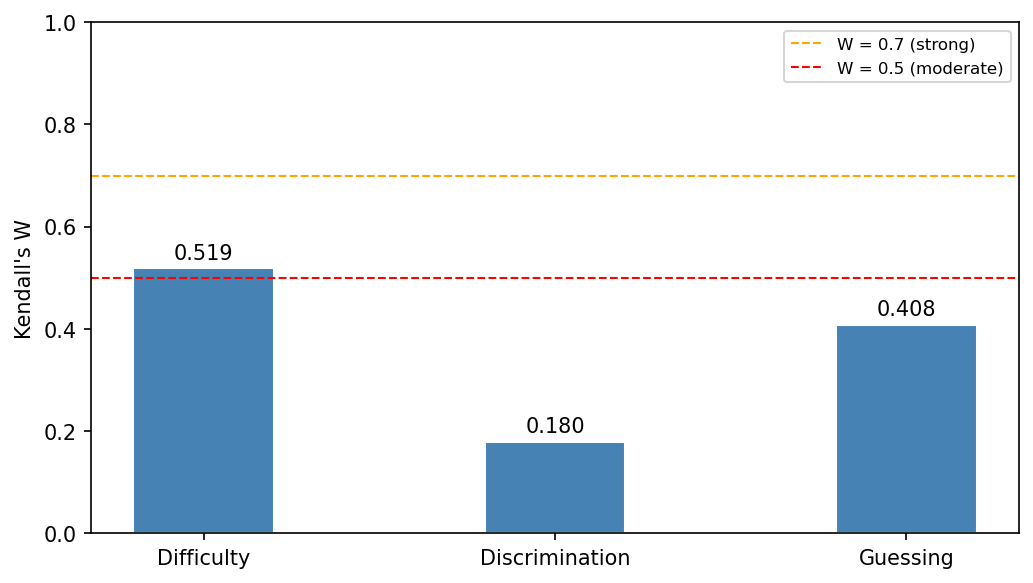
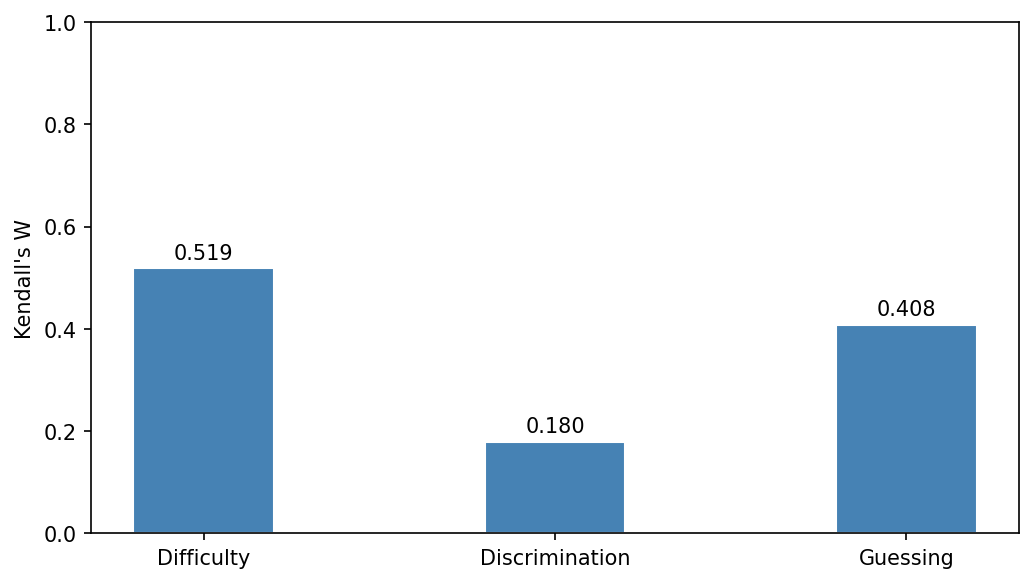
kendall W without baselines

Changed region(s): [[0.7744, 0.0309, 0.9913, 0.1544]]

diff --git a/acl_latex_2.tex b/acl_latex_2.tex
@@ -258,7 +258,7 @@ We conduct two sets of experiments to assess whether IRT parameters are consiste
   \label{tab:science_vs_nonsci}
 \end{table}
 
-\autoref{fig:kendalls_w} shows that difficulty concordance is maintained across model complexities, while discrimination parameters are substantially less cross-lingually stable. Under 1PL, both benchmarks yield moderate difficulty concordance: MGSM at $W = 0.544$ and MMLU domains ranging from $W \in [0.514, 0.659]$ (all six domains exceeding the moderate-agreement threshold\footnote{We adopt $W=0.5$ and $W=0.7$ as moderate and strong concordance thresholds by analogy with conventional correlation effect-size interpretation; no universally agreed scale exists for Kendall's $W$. Practically, $W=0.5$ implies that the average monotonic agreement in item difficulty ranks substantially exceeds chance. We interpret this as \emph{partial} cross-lingual
+\autoref{fig:kendalls_w} shows that difficulty concordance is maintained across model complexities, while discrimination parameters are substantially less cross-lingually stable. Under 1PL, both benchmarks yield moderate difficulty concordance: MGSM at $W = 0.544$ and MMLU domains ranging from $W \in [0.514, 0.659]$ (all six domains exceeding the moderate-agreement threshold\footnote{We adopt $W=0.5$ and $W=0.7$ as moderate and strong concordance thresholds by analogy with conventional correlation effect-size interpretation \cite{landis1977measurement}. Practically, $W=0.5$ implies that the average monotonic agreement in item difficulty ranks substantially exceeds chance. We interpret this as \emph{partial} cross-lingual
 generalization rather than strong invariance, and our conclusions are framed
 accordingly.}). Under 2PL, difficulty concordance is maintained: MGSM $W_\text{diff} = 0.526$ (barely below 1PL), MMLU $W_\text{diff} \in [0.421, 0.642]$. Under 3PL, difficulty concordance is similarly preserved (MGSM $W_\text{diff} = 0.519$; MMLU $W_\text{diff} \in [0.520, 0.664]$). The discrimination parameter, by contrast, shows substantially lower cross-lingual agreement across both 2PL (MGSM $W_\text{disc} = 0.185$; MMLU $W_\text{disc} \in [0.134, 0.319]$) and 3PL ($W_\text{disc}$ similarly low). The guessing parameter $c$ under 3PL retains moderate concordance on both MGSM ($W = 0.408$) and MMLU ($W \in [0.365, 0.547]$).
 
@@ -498,10 +498,10 @@ benchmark. We evaluate four conditions: (i)~in-sample same-language; (ii)~held-o
 same-language (IRT fitted on 80\% of models, evaluated on held-out 20\%);
 (iii)~in-sample cross-lingual; and (iv)~held-out cross-lingual. The primary metric is
 Spearman $\rho$ between per-model subset accuracy and full-benchmark accuracy,
-compared against a 200-draw random-item baseline (\autoref{fig:heldout_vs_insample}). Under 1PL, same-language fidelity is high and stable across both splits: in-sample median $\rho = 0.982$ (MGSM) and $1.000$ (MMLU), dropping only marginally on held-out models ($0.972$ and $1.000$), well above the random baselines. On MGSM, 2PL and 3PL also preserve strong held-out fidelity ($\rho = 0.953$ and $0.951$), showing that with stable parameter estimation all three variants are viable. On MMLU, fidelity degrades progressively with model complexity: 2PL held-out median $\rho = 0.828$ and 3PL $\rho = 0.691$, with 3PL showing the widest spread and several low-fidelity slices (per-slice distributions and accuracy scatter plots in Appendix~\ref{app:ranking_fidelity}).
+compared against a 200-draw random-item baseline\footnote{A mean-accuracy selection baseline achieves comparable fidelity to 1PL (cross-lingual held-out: MGSM $\rho = 0.954$ vs.\ $0.949$; MMLU $\rho = 0.879$ vs.\ $0.877$), but this does not bear on our research question, which concerns whether IRT \textit{parameters} generalise across languages, not whether IRT outperforms alternatives.} (\autoref{fig:heldout_vs_insample}). Under 1PL, same-language fidelity is high and stable across both splits: in-sample median $\rho = 0.982$ (MGSM) and $1.000$ (MMLU), dropping only marginally on held-out models ($0.972$ and $1.000$), well above the random baselines. On MGSM, 2PL and 3PL also preserve strong held-out fidelity ($\rho = 0.953$ and $0.951$), showing that with stable parameter estimation all three variants are viable. On MMLU, fidelity degrades progressively with model complexity: 2PL held-out median $\rho = 0.828$ and 3PL $\rho = 0.691$, with 3PL showing the widest spread and several low-fidelity slices (per-slice distributions and accuracy scatter plots in Appendix~\ref{app:ranking_fidelity}).
 
 To isolate which parameter drives this degradation, \autoref{tab:param_decomp}
-decomposes fidelity by applying progressively richer IIF formulas, also shown in \autoref{fig:param_decomp}: on MGSM all six strategies yield near-identical fidelity, confirming that difficulty alone drives the signal; on MMLU fidelity drops monotonically with each parameter added, with discrimination causing the largest single step down. Selecting items by \textit{difficulty alone} preserves high fidelity across both benchmarks regardless of which PL model fitted it (MGSM held-out: $\rho \approx 0.97$; MMLU held-out: $0.89$--$0.93$). Adding \textit{discrimination} introduces the primary degradation: $-0.017$--$0.022$ on MGSM and $-0.101$--$0.111$ on MMLU held-out, consistent with discrimination being language-idiosyncratic. Adding \textit{guessing} further reduces MMLU held-out fidelity by $0.087$ ($0.778 \to 0.691$) while leaving MGSM virtually unchanged ($0.950 \to 0.951$). Together, it is not model complexity per se but the \textit{discrimination} parameter that drives fidelity loss, and difficulty-based or 1PL selection remains the safest cross-lingual strategy.
+decomposes fidelity by applying progressively richer IIF formulas, also shown in \autoref{fig:param_decomp}: on MGSM all six strategies yield near-identical fidelity, confirming that difficulty alone drives the signal; on MMLU fidelity drops monotonically with each parameter added, with discrimination causing the largest single step down. Selecting items by \textit{difficulty alone} preserves high fidelity across both benchmarks and \textit{discrimination} introduces the primary degradation: $-0.017$--$0.022$ on MGSM and $-0.101$--$0.111$ on MMLU held-out, consistent with discrimination being language-idiosyncratic. Adding \textit{guessing} further reduces MMLU held-out fidelity by $0.087$ ($0.778 \to 0.691$) while leaving MGSM virtually unchanged ($0.950 \to 0.951$). Together, it is not model complexity per se but the \textit{discrimination} parameter that drives fidelity loss, and difficulty-based or 1PL selection remains the safest cross-lingual strategy.
 
 
 
@@ -572,19 +572,19 @@ Across our two experiments, the findings converge on the same story.
 
 \textbf{Subset analysis.} Within-language, 1PL subsets preserve model rankings reliably on both benchmarks, and 2PL and 3PL are competitive on MGSM but degrade substantially on MMLU. Cross-lingually, MGSM remains robust across all three variants, while on MMLU 1PL is the only reliable variant. The parameter decomposition in Table~\ref{tab:crosslingual_decomp} shows that most of the fidelity drop happens before discrimination even enters selection: switching from 1PL to 2PL difficulty alone already costs substantial fidelity on MMLU.
 
-Together, these results reflect something fundamental about what each IRT parameter captures. Difficulty measures how hard an item is for the average model: a property that, for a well-translated item, should survive translation. Discrimination measures how sharply an item separates strong from weak models, which depends on how capabilities distribute in that language and on surface features of the item's phrasing neither of which is translation-invariant. Guessing reflects how often models answer correctly at chance, mediated by pretraining knowledge; since pretraining exposure is uneven but not entirely language-specific, it holds up better than discrimination but not as well as difficulty.  More concretely, for using IRT filtering on multilingual translated benchmarks: i)we must not assume that a subset which works well within one language will generalise to others i.e.,  cross-lingual validity should be verified explicitly by checking concordance across typologically distant languages before deployment and ii) we must account for domain composition as science and STEM domains are reliably more cross-lingually stable than humanities and social sciences, and a single overall fidelity check will mask important variation within mixed-domain benchmarks. Model complexity should match to the stability of the data since richer IRT models are not always better, and when cross-lingual concordance is limited, simpler models that rely only on the most stable parameters will produce more transferable subsets.
+Together, these results reflect something fundamental about what each IRT parameter captures. Difficulty measures how hard an item is for the average model: a property that, for a well-translated item, should survive translation. Discrimination measures how sharply an item separates strong from weak models, which depends on how capabilities distribute in that language and on surface features of the item's phrasing neither of which is translation-invariant. Guessing reflects how often models answer correctly at chance, mediated by pretraining knowledge; since pretraining exposure is uneven but not entirely language-specific, it holds up better than discrimination but not as well as difficulty.  More concretely, for using IRT filtering on multilingual translated benchmarks: i)we must not assume that a subset which works well within one language will generalise to others i.e.,  cross-lingual validity should be verified explicitly by checking concordance across typologically distant languages before deployment and ii) we must account for domain composition as science and STEM domains are reliably more cross-lingually stable than humanities and social sciences, and a single overall fidelity check will mask important variation within mixed-domain benchmarks. When cross-lingual concordance is limited, simpler models that rely only on the most stable parameters will produce more transferable subsets.
 
 
 
 \section{Conclusion}
 
-We set out to test a basic but largely unexamined assumption in multilingual LLM evaluation: that IRT, an established tool for benchmark filtering, behaves consistently when the same benchmark is translated across languages. The answer is that it does but only for some parameters. Difficulty is moderately stable across languages for all IRT variants and both benchmark types, and IRT-filtered subsets built from one language reliably preserve model rankings in another. Discrimination does not transfer: it captures language-specific rather than item-specific signal, and Guessing sits between the two, reflecting pretraining-mediated chance performance rather than language-specific item structure. This parameter hierarchy is consistent across concordance measures, language clustering, and subset ranking fidelity, and it determines a clear practical recommendation: 1PL is the most reliable cross-lingual variant. However,our conclusions are grounded in open-weight instruction-tuned models under 20
+We set out to test a basic but largely unexamined assumption in multilingual LLM evaluation: whether IRT, an established tool for benchmark filtering, behaves consistently when the same benchmark is translated across languages. The answer is that it does but only for some parameters. Difficulty is moderately stable across languages for all IRT variants, and IRT-filtered subsets built from one language reliably preserve model rankings in another. Discrimination does not transfer: it captures language-specific rather than item-specific signal, and Guessing sits between the two, reflecting pretraining-mediated chance performance rather than language-specific item structure. This parameter hierarchy is consistent across concordance measures, language clustering, and subset ranking fidelity, and it determines a clear practical recommendation: 1PL is the most reliable cross-lingual variant. However,our conclusions are grounded in open-weight instruction-tuned models under 20
 billion parameters and a language sample skewed toward European languages; their
-scope should be verified before extension to frontier models or typologically distant
-language families not represented here. 
+scope should be verified with frontier models and typologically distant
+language families not represented. 
 
 
-As translation-based multilingual benchmarks become standard infrastructure for LLM evaluation, the psychometric properties of translated items cannot be assumed to carry over across languages. Our findings show that the choice of IRT model and the stability of its parameters are not incidental details: they determine whether a compressed benchmark remains valid across the languages it is meant to evaluate. Cross-lingual validity should be demonstrated, not assumed, and we hope this work provides a concrete empirical basis for that standard.
+As translation-based multilingual benchmarks become common, the psychometric properties of translated items cannot be assumed to carry over across languages. Our findings show that the choice of IRT model and the stability of its parameters are not incidental details: they determine whether a compressed benchmark remains valid across the languages it is meant to evaluate. Cross-lingual validity should be demonstrated, not assumed, and we hope this work provides a concrete empirical basis for that standard.
 
 
 %We hope this motivates further work on psychometrically grounded criteria for multilingual benchmark construction and validation.We hope this motivates further work on psychometrically grounded multilingual evaluation, and principled criteria for when language-specific calibration is warranted for evaluation benchmarks.

diff --git a/scripts/analysis_2/gsm/rank_consistency_2pl.py b/scripts/analysis_2/gsm/rank_consistency_2pl.py
@@ -189,12 +189,9 @@ def main() -> None:
     bars = ax3.bar(param_labels, w_values, color="steelblue", edgecolor="white", width=0.4)
     ax3.set_ylim(0, 1)
     ax3.set_ylabel("Kendall's W")
-    ax3.axhline(0.7, color="orange", linestyle="--", linewidth=1, label="W = 0.7 (strong)")
-    ax3.axhline(0.5, color="red", linestyle="--", linewidth=1, label="W = 0.5 (moderate)")
     for bar, val in zip(bars, w_values):
         ax3.text(bar.get_x() + bar.get_width() / 2, bar.get_height() + 0.01,
                  f"{val:.3f}", ha="center", va="bottom", fontsize=10)
-    ax3.legend(fontsize=8)
     fig3.tight_layout()
     fig3.savefig(args.output_dir / "kendalls_w.png", dpi=150, bbox_inches="tight")
     plt.close(fig3)

diff --git a/scripts/analysis_2/gsm/rank_consistency_3pl.py b/scripts/analysis_2/gsm/rank_consistency_3pl.py
@@ -206,12 +206,9 @@ def main() -> None:
     bars = ax4.bar(param_labels, w_values, color="steelblue", edgecolor="white", width=0.4)
     ax4.set_ylim(0, 1)
     ax4.set_ylabel("Kendall's W")
-    ax4.axhline(0.7, color="orange", linestyle="--", linewidth=1, label="W = 0.7 (strong)")
-    ax4.axhline(0.5, color="red", linestyle="--", linewidth=1, label="W = 0.5 (moderate)")
     for bar, val in zip(bars, w_values):
         ax4.text(bar.get_x() + bar.get_width() / 2, bar.get_height() + 0.01,
                  f"{val:.3f}", ha="center", va="bottom", fontsize=10)
-    ax4.legend(fontsize=8)
     fig4.tight_layout()
     fig4.savefig(args.output_dir / "kendalls_w.png", dpi=150, bbox_inches="tight")
     plt.close(fig4)

diff --git a/scripts/analysis_2/gsm/rank_consistency_1pl.py b/scripts/analysis_2/gsm/rank_consistency_1pl.py
@@ -170,12 +170,9 @@ def main() -> None:
     bars = ax2.bar(["Difficulty"], [w], color="steelblue", edgecolor="white", width=0.4)
     ax2.set_ylim(0, 1)
     ax2.set_ylabel("Kendall's W")
-    ax2.axhline(0.7, color="orange", linestyle="--", linewidth=1, label="W = 0.7 (strong)")
-    ax2.axhline(0.5, color="red", linestyle="--", linewidth=1, label="W = 0.5 (moderate)")
     for bar, val in zip(bars, [w]):
         ax2.text(bar.get_x() + bar.get_width() / 2, bar.get_height() + 0.01,
                  f"{val:.3f}", ha="center", va="bottom", fontsize=10)
-    ax2.legend(fontsize=8)
     fig2.tight_layout()
     fig2.savefig(args.output_dir / "kendalls_w.png", dpi=150, bbox_inches="tight")
     plt.close(fig2)

diff --git a/scripts/analysis_2/mmlu/rank_consistency_1pl.py b/scripts/analysis_2/mmlu/rank_consistency_1pl.py
@@ -211,12 +211,9 @@ def main() -> None:
     bars = ax2.bar(domain_labels, w_values, color="steelblue", edgecolor="white")
     ax2.set_ylim(0, 1)
     ax2.set_ylabel("Kendall's W")
-    ax2.axhline(0.7, color="orange", linestyle="--", linewidth=1, label="W = 0.7 (strong)")
-    ax2.axhline(0.5, color="red", linestyle="--", linewidth=1, label="W = 0.5 (moderate)")
     for bar, w in zip(bars, w_values):
         ax2.text(bar.get_x() + bar.get_width() / 2, bar.get_height() + 0.01,
                  f"{w:.3f}", ha="center", va="bottom", fontsize=9)
-    ax2.legend(fontsize=8)
     fig2.tight_layout()
     fig2.savefig(args.output_dir / "kendalls_w.png", dpi=150, bbox_inches="tight")
     plt.close(fig2)

diff --git a/scripts/analysis_2/mmlu/rank_consistency_3pl.py b/scripts/analysis_2/mmlu/rank_consistency_3pl.py
@@ -248,12 +248,9 @@ def main() -> None:
     ax4.set_xticklabels(domain_labels)
     ax4.set_ylim(0, 1)
     ax4.set_ylabel("Kendall's W")
-    ax4.axhline(0.7, color="red",    linestyle="--", linewidth=1, label="W = 0.7")
-    ax4.axhline(0.5, color="orange", linestyle="--", linewidth=1, label="W = 0.5")
     for bar in list(bars1) + list(bars2) + list(bars3):
         ax4.text(bar.get_x() + bar.get_width() / 2, bar.get_height() + 0.01,
                  f"{bar.get_height():.2f}", ha="center", va="bottom", fontsize=7)
-    ax4.legend(fontsize=8)
     fig4.tight_layout()
     fig4.savefig(args.output_dir / "kendalls_w.png", dpi=150, bbox_inches="tight")
     plt.close(fig4)

diff --git a/scripts/analysis_2/mmlu/rank_consistency_2pl.py b/scripts/analysis_2/mmlu/rank_consistency_2pl.py
@@ -230,12 +230,9 @@ def main() -> None:
     ax3.set_xticklabels(domain_labels)
     ax3.set_ylim(0, 1)
     ax3.set_ylabel("Kendall's W")
-    ax3.axhline(0.7, color="red", linestyle="--", linewidth=1, label="W = 0.7")
-    ax3.axhline(0.5, color="orange", linestyle="--", linewidth=1, label="W = 0.5")
     for bar in list(bars1) + list(bars2):
         ax3.text(bar.get_x() + bar.get_width() / 2, bar.get_height() + 0.01,
                  f"{bar.get_height():.2f}", ha="center", va="bottom", fontsize=7)
-    ax3.legend(fontsize=8)
     fig3.tight_layout()
     fig3.savefig(args.output_dir / "kendalls_w.png", dpi=150, bbox_inches="tight")
     plt.close(fig3)
